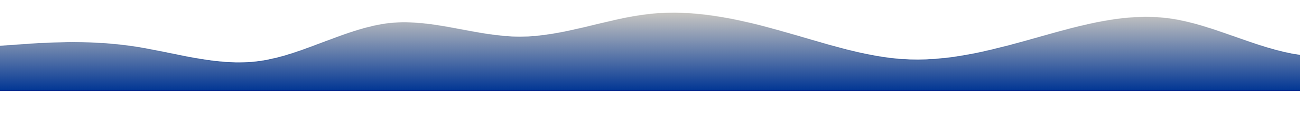
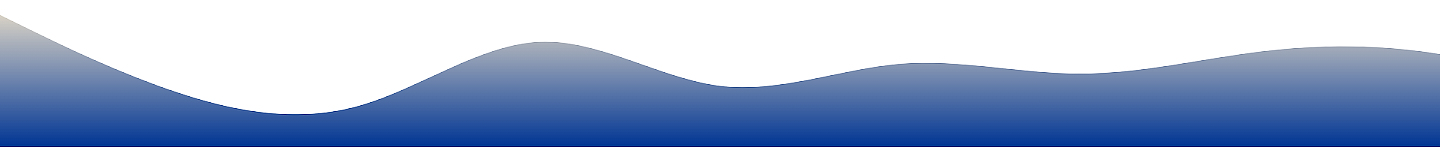
fin de la page inscription

diff --git a/asset/CSS/inscription.css b/asset/CSS/inscription.css
@@ -7,15 +7,15 @@
 
 html {
     width: 100vw;
-    height: 100vh;
-    background-color:#e3dac9;
+    height: auto;
+    background-color: #e3dac9;
 
 }
 
 main {
+    margin-top: 100px;
     width: 100%;
     height: auto;
-    background-color: #e3dac9;
 
 }
 
@@ -23,14 +23,25 @@ main {
     font-family: 'Far From';
     src: url('http://localhost/blog/blog/asset/FONT/Far-From Homecoming Updated.otf') format('opentype');
 }
-.error1{
+
+.error1 {
     background-color: red;
     color: white;
     text-align: center;
     font-size: x-large;
     animation: entrance 2s ease-in-out 0s 1 normal forwards,
-                 outro 1s ease-in-out 2s 1 normal forwards;
+    outro 1s ease-in-out 2s 1 normal forwards;
 }
+
+.confirmation {
+    background-color: limegreen;
+    color: white;
+    text-align: center;
+    font-size: x-large;
+    animation: entrance 2s ease-in-out 0s 1 normal forwards,
+    outro 2s ease-in-out 2s 1 normal forwards;
+}
+
 @keyframes entrance {
     0% {
         opacity: 0;
@@ -40,6 +51,7 @@ main {
         opacity: 1;
     }
 }
+
 @keyframes outro {
     0% {
         opacity: 1;
@@ -49,6 +61,7 @@ main {
         opacity: 0;
     }
 }
+
 .titre {
     font-family: "Far From";
     color: #FF8200;
@@ -89,7 +102,8 @@ main {
     border-right: none;
     border-bottom: black solid 2px;
 }
-.btn{
+
+.btn {
     background: transparent;
     border-radius: 15px;
     border-top: solid 1px;

diff --git a/asset/CSS/header.css b/asset/CSS/header.css
@@ -1,6 +1,6 @@
 nav ul {
     width: 100%;
-    height: 90px;
+    height: 200px;
     background-image: url("../IMAGE/wave.png");
     background-size: cover;
     text-align: center;
@@ -26,6 +26,10 @@ nav li a {
     font-size: xx-large;
     box-shadow: rgba(0, 0, 0, 0.3) 0px 19px 38px, rgba(0, 0, 0, 0.22) 0px 15px 12px;
     border-radius: 5px;
+}
+
+nav li a:hover {
+    background-color: #003594;
 }
 
 .dropdown {
@@ -68,8 +72,8 @@ nav li a {
 
 .footer ul {
     width: 100%;
-    height: 80px;
-background-image: url("../IMAGE/wave 2.png");
+    height: 200px;
+    background-image: url("../IMAGE/wave 2.png");
     text-align: center;
     display: flex;
     flex-direction: row;

diff --git a/asset/CSS/index.css b/asset/CSS/index.css
@@ -18,7 +18,8 @@ main {
 
 
 }
-footer{
+
+footer {
     width: 100%;
     height: 100%;
 }

diff --git a/php/classes_user.php b/php/classes_user.php
@@ -13,6 +13,7 @@ class User
     {
         $this->pdo = new PDO('mysql:host=localhost;dbname=blog', 'root');
     }
+
     public function register($login, $password, $email)
     {
         try {
@@ -26,13 +27,18 @@ class User
         if ($res == false) {
             try {
                 $sth = $this->pdo->prepare("INSERT INTO utilisateurs(login, password, email, id_droits) VALUES (?,?,?,?)");
-                $droits=1;
+                $droits = 1;
                 $sth->execute(array($login, password_hash($password, PASSWORD_DEFAULT), $email, $droits));
+                $confirmation = '<p class="confirmation">Bienvenue ' . $_POST['login'] . ' dans la Rams Family</p>';
+                echo $confirmation;
             } catch (Exception $e) {
                 echo 'Exception reçue : ', $e->getMessage(), "\n";
             }
+        } elseif ($res == true) {
+
+            $error2 = "<p class='error1'>Ce Nom d'utilisateur existe déjà</p>";
+            echo $error2;
         }
-        return [$login, $password, $email,$droits];
     }
 
     public function connect($login, $password)
@@ -40,11 +46,11 @@ class User
         $sth = $this->pdo->prepare("SELECT * FROM utilisateurs WHERE login =?");
         $sth->execute(array($login));
         $res = $sth->fetch(PDO::FETCH_ASSOC);
-        if ($login === $res['login'] && password_verify($password ,$res['password'] )) {
-            $this->id=$res['id'];
+        if ($login === $res['login'] && password_verify($password, $res['password'])) {
+            $this->id = $res['id'];
             $this->login = $login;
             $this->email = $res['email'];
-            $this->droits=$res['id_droits'];
+            $this->droits = $res['id_droits'];
             $_SESSION['login'] = $login;
             $_SESSION['id'] = $res['id'];
 
@@ -59,6 +65,7 @@ class User
             session_unset();
         }
     }
+
     public function update($login, $password, $email)
     {
         $log = $_SESSION['login'];
@@ -68,7 +75,7 @@ class User
         $this->login = $login;
         $this->email = $email;
         $_SESSION['login'] = $login;
-        $id=$_SESSION['id'];
+        $id = $_SESSION['id'];
         try {
 
             $sth2 = $this->pdo->prepare("UPDATE utilisateurs SET login = ?,password = ?,email = ? WHERE id=$id");
@@ -80,6 +87,7 @@ class User
 
 
     }
+
     public function isConnected()
     {
         if (isset($_SESSION['login'])) {
@@ -93,7 +101,7 @@ class User
     {
         $sth = $this->pdo->prepare("SELECT id_droits FROM utilisateurs WHERE id=$droits");
         $sth->execute();
-        $res=$sth->fetchAll(PDO::FETCH_ASSOC);
+        $res = $sth->fetchAll(PDO::FETCH_ASSOC);
         return $res;
     }
 

diff --git a/php/inscription.php b/php/inscription.php
@@ -3,9 +3,17 @@ session_start();
 require "classes_user.php";
 require "classes-categorie.php";
 require "classe_article.php";
-if(isset($_POST['submit'])){
-    if(empty($_POST['login']) || empty($_POST['password']) || empty($_POST['email']) || empty($_POST['confirm'])){
-$error1="<p class='error1'>Veuillez remplir tout les champs!</p>";
+if (isset($_POST['submit'])) {
+    if (empty($_POST['login']) || empty($_POST['password']) || empty($_POST['email']) || empty($_POST['confirm'])) {
+        echo "<p class='error1'>Veuillez remplir tout les champs!</p>";
+    } elseif ($_POST['password'] != $_POST['confirm']) {
+        echo "<p class='error1'>Verifiez votre mot de passe</p> ";
+    } else {
+        $register = new User();
+        $register->register($_POST['login'], $_POST['password'], $_POST['email']);
+        header('Refresh 3, url=connexion.php');
+
+
     }
 }
 
@@ -30,11 +38,7 @@ $error1="<p class='error1'>Veuillez remplir tout les champs!</p>";
     <?php require "header.php"; ?>
 </header>
 <main>
-    <?php
-    if (isset($error1)){
-        echo $error1;
-    }
-    ?>
+
     <h1 class="titre">Rejoignez la Rams family!</h1>
     <div class="container">
         <img src="../asset/IMAGE/aaron-donald.jpg" alt="aaron-donald" class="gauche">

diff --git a/php/footer.php b/php/footer.php
@@ -5,7 +5,7 @@
         <li><a href="article.php">Article</a></li>
         <?php
         if (!isset($_SESSION['id'])) {
-            echo "<li><a href='inscription.php'>Inscritpion</a></li>";
+            echo "<li><a href='inscription.php'>Inscription</a></li>";
             echo "<li><a href='connexion.php'>Connexion</a></li>";
         } else {
             echo "<li><a href='profil.php'>Profil</a></li>";
